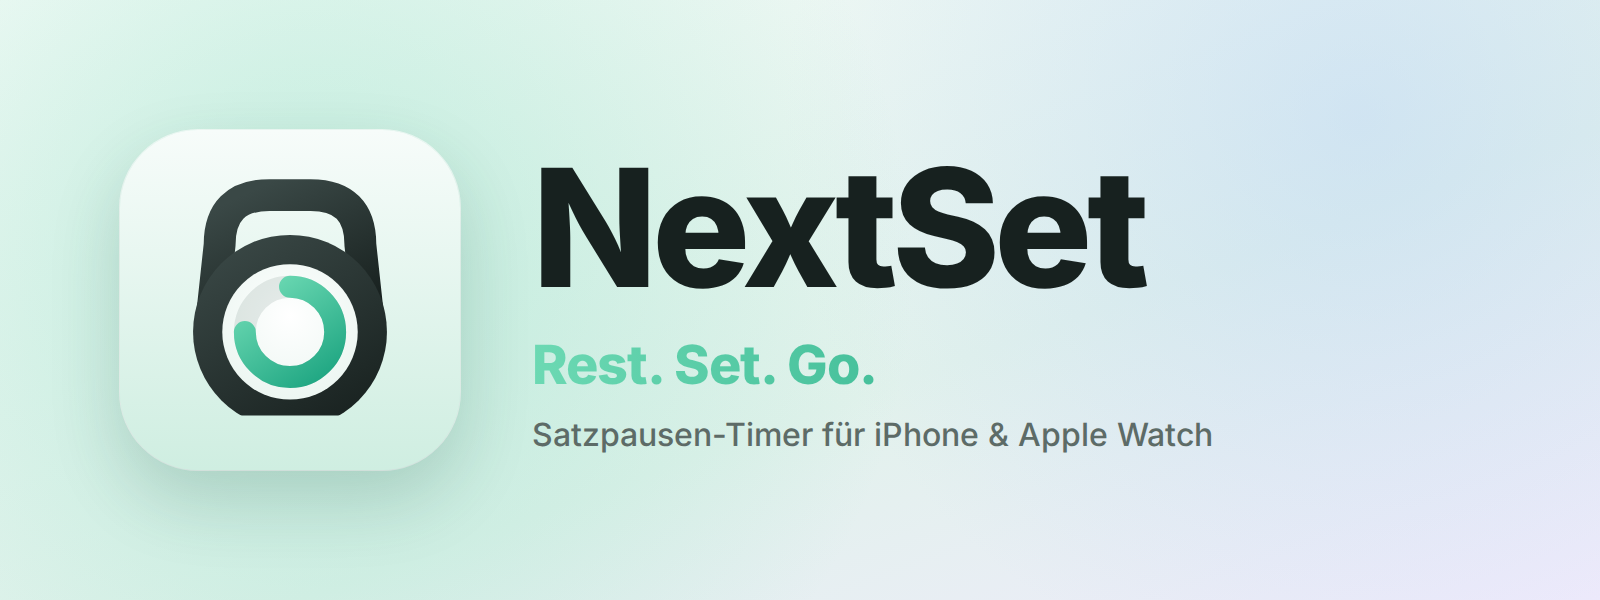
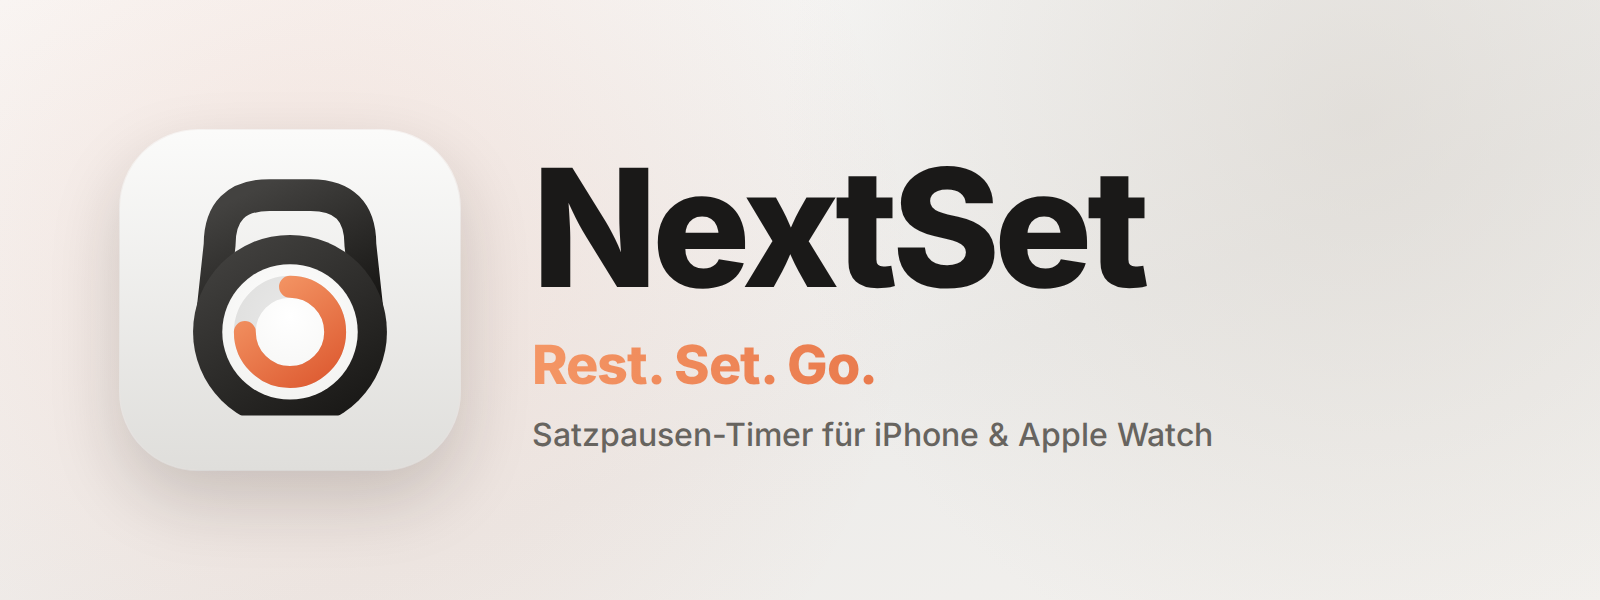
Graphite & coral colour scheme [skip ci]
Replaces the mint/lavender palette with graphite, white and glass. Coral
is the only colour: the last seconds of a rest, the logo ring, switches
and confirm buttons, and the watch app's tint. Symbols on the prominent
button follow the new onAccentStrong colour so they stay readable on the
near-white button in dark mode and on the watch.

App icons, logo and banner are regenerated from Branding/build-icons.mjs.

Claude-Session: https://claude.ai/code/session_01F34TCNYxWgSu8AoQUPgtjR

Changed region(s): [[0.0, 0.0, 0.5625, 1.0], [0.125, 0.45, 0.2188, 0.66]]

diff --git a/NextSet/Views/SettingsView.swift b/NextSet/Views/SettingsView.swift
@@ -21,6 +21,7 @@ struct SettingsView: View {
                     Button("Done", systemImage: "checkmark", role: .confirm) {
                         dismiss()
                     }
+                    .tint(Theme.controlTint)
                 }
             }
             .sheet(item: $editor) { target in
@@ -98,8 +99,11 @@ struct SettingsView: View {
                     Text("\(value) seconds").tag(value)
                 }
             }
-            Toggle("Haptics", systemImage: "iphone.radiowaves.left.and.right", isOn: setting(\.hapticsEnabled))
-            Toggle("Sounds", systemImage: "speaker.wave.2", isOn: setting(\.soundEnabled))
+            Group {
+                Toggle("Haptics", systemImage: "iphone.radiowaves.left.and.right", isOn: setting(\.hapticsEnabled))
+                Toggle("Sounds", systemImage: "speaker.wave.2", isOn: setting(\.soundEnabled))
+            }
+            .tint(Theme.controlTint)
             if store.settings.soundEnabled {
                 Picker("Sound", systemImage: "music.note", selection: setting(\.soundStyle)) {
                     ForEach(SoundStyle.allCases) { style in
@@ -122,9 +126,12 @@ struct SettingsView: View {
 
     private var duringRestSection: some View {
         Section {
-            Toggle("Keep display on", systemImage: "sun.max", isOn: setting(\.keepScreenOn))
-            Toggle("Notify when rest is over", systemImage: "bell.badge", isOn: setting(\.notificationsEnabled))
-            Toggle("Live Activity", systemImage: "lock.iphone", isOn: setting(\.liveActivityEnabled))
+            Group {
+                Toggle("Keep display on", systemImage: "sun.max", isOn: setting(\.keepScreenOn))
+                Toggle("Notify when rest is over", systemImage: "bell.badge", isOn: setting(\.notificationsEnabled))
+                Toggle("Live Activity", systemImage: "lock.iphone", isOn: setting(\.liveActivityEnabled))
+            }
+            .tint(Theme.controlTint)
         } header: {
             Text("During a rest")
         } footer: {

diff --git a/Shared/Theme.swift b/Shared/Theme.swift
@@ -3,18 +3,26 @@ import SwiftUI
 import UIKit
 #endif
 
-/// NextSet's colours: a calm mint for rest and recovery, a soft peach for
-/// the last seconds. Everything else comes from the system so the Liquid
-/// Glass surfaces can do the work.
+/// NextSet's colours: graphite, white and glass for everything, coral only
+/// where it counts – the last seconds of a rest, plus the ring in the logo.
+/// Everything else comes from the system so the Liquid Glass surfaces can do
+/// the work.
 enum Theme {
     /// Rings, icons and highlights.
-    static let accent = Color.adaptive(light: 0x22A884, dark: 0x74DDB9)
-    /// Fill for prominent buttons with white symbols on top.
-    static let accentStrong = Color.adaptive(light: 0x1F9E7B, dark: 0x2FAE88)
+    static let accent = Color.adaptive(light: 0x2E2E2C, dark: 0xEFEEEB)
+    /// Fill for prominent buttons.
+    static let accentStrong = Color.adaptive(light: 0x1E1D1B, dark: 0xEFEEEB)
+    /// Symbols on top of `accentStrong`.
+    static let onAccentStrong = Color.adaptive(light: 0xFFFFFF, dark: 0x171614)
     /// Accent for small text, with enough contrast on light backgrounds.
-    static let accentText = Color.adaptive(light: 0x157A5E, dark: 0x86E3C3)
+    static let accentText = Color.adaptive(light: 0x393836, dark: 0xE9E8E5)
+    /// The brand colour: the ring in the logo and the watch app's tint.
+    static let coral = Color.adaptive(light: 0xE0643C, dark: 0xFA8C58)
     /// The last seconds of a rest.
-    static let countdown = Color.adaptive(light: 0xE0773F, dark: 0xFFB380)
+    static let countdown = coral
+    /// Switches and confirm buttons put white on the tint, which a graphite
+    /// accent (near-white in dark mode) cannot carry.
+    static let controlTint = coral
     static let track = Color.primary.opacity(0.08)
 }
 

diff --git a/NextSet/Views/HomeView.swift b/NextSet/Views/HomeView.swift
@@ -85,7 +85,7 @@ private struct SoundToggle: View {
     }
 }
 
-/// Soft mesh gradient behind the Liquid Glass surfaces: calm colours that the
+/// Soft mesh gradient behind the Liquid Glass surfaces: warm greys that the
 /// glass can pick up and refract, in light and dark mode.
 struct Backdrop: View {
     @Environment(\.colorScheme) private var colorScheme
@@ -104,15 +104,15 @@ struct Backdrop: View {
     }
 
     private static let light: [UInt32] = [
-        0xDDF3EA, 0xF1F7F8, 0xDDEBFA,
-        0xEAF3FC, 0xCFEFE2, 0xEAE6FB,
-        0xF7FAF9, 0xE6F2EF, 0xF1EEF9,
+        0xF0EEEB, 0xF7F7F5, 0xEFECE9,
+        0xF4F3F1, 0xE8E6E3, 0xF1EEEC,
+        0xFAFAF9, 0xF1F0EE, 0xF4F2F0,
     ]
 
     private static let dark: [UInt32] = [
-        0x0F2220, 0x0C1316, 0x111A2C,
-        0x0D1B20, 0x103028, 0x16182E,
-        0x07090B, 0x0A1012, 0x0D0C15,
+        0x191817, 0x0E0D0C, 0x171615,
+        0x121111, 0x201F1D, 0x151312,
+        0x040404, 0x070707, 0x060605,
     ]
 }
 

diff --git a/NextSetWatch/Views/WatchTimerView.swift b/NextSetWatch/Views/WatchTimerView.swift
@@ -38,7 +38,7 @@ struct WatchTimerView: View {
                         store.primaryAction()
                     } label: {
                         Image(systemName: "arrow.clockwise")
-                            .foregroundStyle(.white)
+                            .foregroundStyle(Theme.onAccentStrong)
                     }
                     .tint(Theme.accentStrong)
                     .accessibilityLabel(Text("Repeat rest"))
@@ -57,7 +57,7 @@ struct WatchTimerView: View {
                         store.primaryAction()
                     } label: {
                         Image(systemName: timer.phase == .running ? "pause.fill" : "play.fill")
-                            .foregroundStyle(.white)
+                            .foregroundStyle(Theme.onAccentStrong)
                     }
                     .tint(Theme.accentStrong)
                     .accessibilityLabel(timer.phase == .running ? Text("Pause") : Text("Resume"))

diff --git a/NextSetWatch/Views/WatchHomeView.swift b/NextSetWatch/Views/WatchHomeView.swift
@@ -29,7 +29,7 @@ struct WatchHomeView: View {
                         .contentShape(.rect(cornerRadius: 22))
                     }
                     .buttonStyle(.plain)
-                    .glassEffect(.regular.tint(Theme.accent.opacity(0.35)).interactive(), in: .rect(cornerRadius: 22))
+                    .glassEffect(.regular.tint(Theme.accent.opacity(0.24)).interactive(), in: .rect(cornerRadius: 22))
                     .accessibilityLabel(Text("Start \(DurationFormat.spoken(preset.seconds)) rest"))
                 }
 
@@ -59,7 +59,7 @@ struct WatchHomeView: View {
                     WatchSettingsView()
                 } label: {
                     Image(systemName: "gearshape.fill")
-                        .foregroundStyle(.white)
+                        .foregroundStyle(Theme.onAccentStrong)
                         .accessibilityLabel(Text("Settings"))
                 }
                 .tint(Theme.accentStrong)

diff --git a/NextSet/Views/TimerSections.swift b/NextSet/Views/TimerSections.swift
@@ -17,7 +17,7 @@ struct QuickTimersSection: View {
                     }
                     .buttonStyle(.plain)
                     .glassEffect(
-                        .regular.tint(Theme.accent.opacity(isCurrent ? 0.35 : 0.16)).interactive(),
+                        .regular.tint(Theme.accent.opacity(isCurrent ? 0.22 : 0.1)).interactive(),
                         in: .rect(cornerRadius: 28)
                     )
                     .contextMenu {
@@ -132,7 +132,7 @@ struct PresetsSection: View {
         }
         .buttonStyle(.plain)
         .glassEffect(
-            isCurrent ? .regular.tint(Theme.accent.opacity(0.3)).interactive() : .regular.interactive(),
+            isCurrent ? .regular.tint(Theme.accent.opacity(0.2)).interactive() : .regular.interactive(),
             in: .rect(cornerRadius: 18)
         )
         .contextMenu {

diff --git a/NextSetWatch/NextSetWatchApp.swift b/NextSetWatch/NextSetWatchApp.swift
@@ -9,7 +9,9 @@ struct NextSetWatchApp: App {
         WindowGroup {
             WatchRootView()
                 .environment(model.store)
-                .tint(Theme.accent)
+                // Coral for the title and controls: the graphite accent is
+                // white on the watch and would not stand out from the text.
+                .tint(Theme.coral)
         }
         .onChange(of: scenePhase, initial: true) { _, phase in
             guard phase == .active else { return }

diff --git a/NextSet/Views/ControlBar.swift b/NextSet/Views/ControlBar.swift
@@ -14,7 +14,7 @@ struct ControlBar: View {
                 } label: {
                     Image(systemName: primarySymbol)
                         .font(.system(size: 28, weight: .semibold))
-                        .foregroundStyle(.white)
+                        .foregroundStyle(Theme.onAccentStrong)
                         .frame(width: 76, height: 76)
                         .contentTransition(.symbolEffect(.replace))
                 }

diff --git a/NextSetWidgets/RestLiveActivity.swift b/NextSetWidgets/RestLiveActivity.swift
@@ -40,7 +40,7 @@ struct RestLiveActivity: Widget {
                 RestRing(state: state, isOver: isOver, lineWidth: 3.5)
                     .frame(width: 20, height: 20)
             }
-            .keylineTint(Theme.accent)
+            .keylineTint(Theme.coral)
         }
         .supplementalActivityFamilies([.small])
     }

diff --git a/Shared/KettlebellMark.swift b/Shared/KettlebellMark.swift
@@ -5,7 +5,7 @@ import SwiftUI
 /// Mirrors the geometry in `Branding/build-icons.mjs` (1024 pt artboard).
 struct KettlebellMark: View {
     var bell: Color = .primary
-    var ring: Color = Theme.accent
+    var ring: Color = Theme.coral
 
     var body: some View {
         GeometryReader { proxy in

diff --git a/NextSet/Views/TimerEditorSheet.swift b/NextSet/Views/TimerEditorSheet.swift
@@ -56,6 +56,7 @@ struct TimerEditorSheet: View {
                         save()
                         dismiss()
                     }
+                    .tint(Theme.controlTint)
                 }
             }
             .onAppear(perform: load)

diff --git a/README.md b/README.md
@@ -8,7 +8,9 @@
 
 **NextSet** sagt, worum es geht: Die App sagt dir, wann dein *nächster Satz* startet. Der Claim **„Rest. Set. Go.“** ist ein Wortspiel auf „Ready, Set, Go“.
 
-Das **Logo** ist eine Kettlebell, deren Körper gleichzeitig ein Timer-Zifferblatt ist. Griff und Kugel ergeben die Silhouette einer Stoppuhr, der mintgrüne Ring zeigt die ablaufende Pause. So steht das Logo zugleich für Gym und Timer. Mint steht für Erholung und ist die Akzentfarbe der ganzen App, für die letzten Sekunden kommt ein sanftes Pfirsich dazu.
+Das **Logo** ist eine Kettlebell, deren Körper gleichzeitig ein Timer-Zifferblatt ist. Griff und Kugel ergeben die Silhouette einer Stoppuhr, der Ring in Koralle zeigt die ablaufende Pause. So steht das Logo zugleich für Gym und Timer.
+
+**Farben:** Graphit, Weiß und Glas prägen die App, sie bleibt dadurch ruhig und schlicht. Farbe gibt es nur, wenn es drauf ankommt: In den letzten Sekunden leuchten Ring und Ziffern in Koralle. Koralle ist außerdem die Farbe des Logos und der Schalter, auf der Watch auch die Akzentfarbe.
 
 | iPhone | iPhone (dunkel) | iPhone (getönt) | Apple Watch |
 |:---:|:---:|:---:|:---:|
@@ -44,7 +46,7 @@ Die Screenshots stammen aus dem iOS-26- bzw. watchOS-26-Simulator (CI-Workflow m
 
 **iPhone**
 - Liquid-Glass-Design (iOS 26): Zifferblatt als Glasscheibe, Schnell-Timer als getönte Glas-Kacheln, Glas-Buttons und -Toolbar über einem weichen Mesh-Gradient, der sich im Glas bricht
-- Folgt Hell- und Dunkelmodus des Systems; ruhiges Mint als Akzent, große Ziffern in SF Rounded
+- Folgt Hell- und Dunkelmodus des Systems; Graphit als Akzent, Koralle für die letzten Sekunden, große Ziffern in SF Rounded
 - **Live-Aktivität** auf dem Sperrbildschirm, in der Dynamic Island und im Smart Stack der Apple Watch
 - **Mitteilung** zum Pausenende, falls die App im Hintergrund ist
 - **Display bleibt an**, solange eine Pause läuft (abschaltbar)
